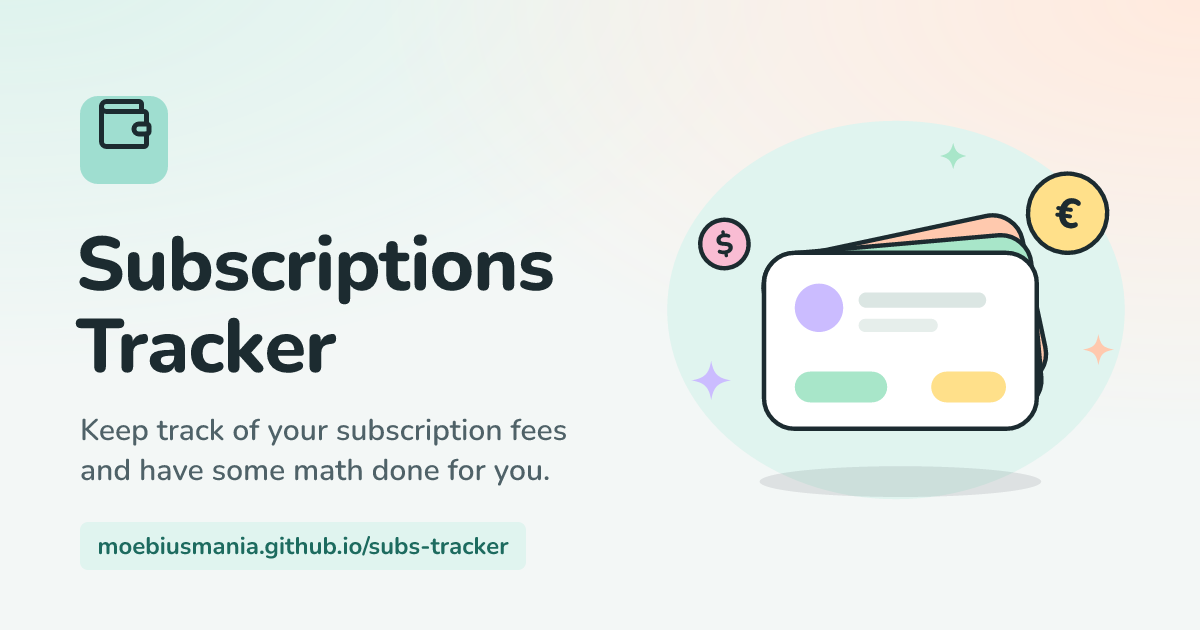
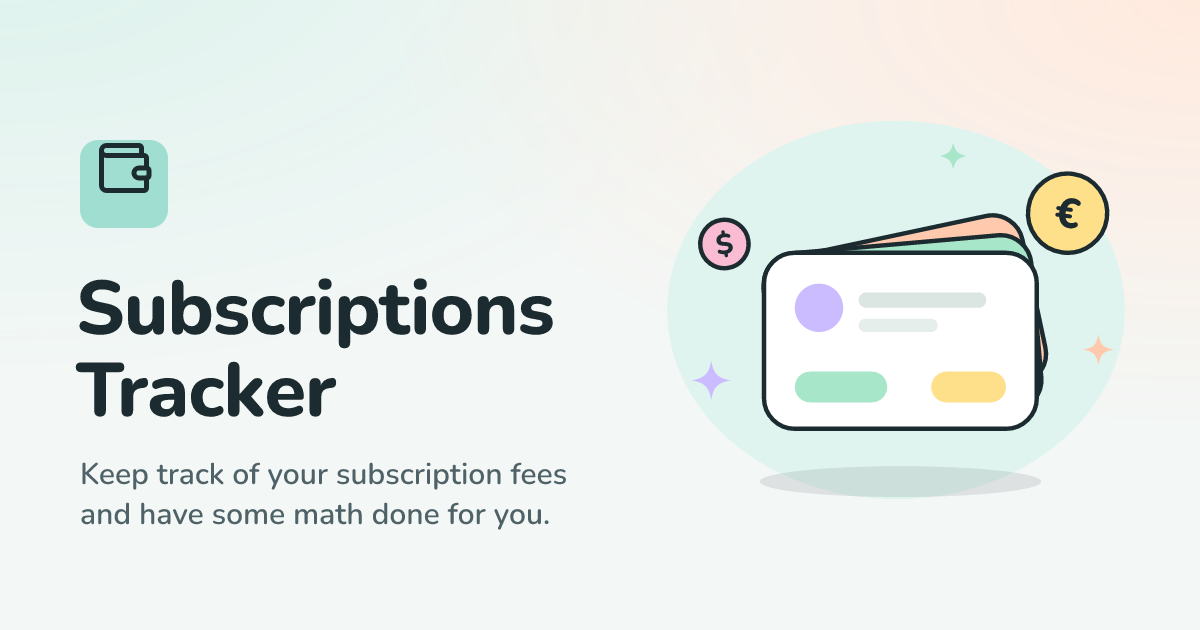
fix: longer share title, no URL in the preview image
The share title is now 58 characters (preview checkers want 30-60),
from a new meta.shareTitle key, while the page title stays short.
twitter:image comes after its alt tag, the preview image drops the
repository URL and re-centres the text, and the warning sign is gone
from the README title.

Changed region(s): [[0.0617, 0.1508, 0.4933, 0.9048]]

diff --git a/src/js/lib/types.ts b/src/js/lib/types.ts
@@ -13,6 +13,7 @@ export type I18n = {
   meta: {
     language: string;
     title: string;
+    shareTitle: string;
     description: string;
     imageAlt: string;
   };

diff --git a/CLAUDE.md b/CLAUDE.md
@@ -147,12 +147,14 @@ their own browser (`deno task dev:host` serves it to the LAN).
   and `--color-on-accent` values.
 - **Social previews**: `base.vto` has Open Graph/Twitter tags and a canonical
   link, with absolute URLs from the `url(true)` filter. They're read by crawlers
-  that don't run JS, so they stay in English. `src/og-image.png` (1200×630,
-  added in `_config.ts` but not precached) is rendered from `src/og-image.svg`,
-  a static variant of the empty-state illustration with the light tokens
-  hard-coded: keep it in sync with the palette and the illustration. Its text
-  needs static Nunito weights (600/700/800) at render time, since resvg ignores
-  the weight of the variable font.
+  that don't run JS, so they stay in English. `og:title`/`twitter:title` use
+  `meta.shareTitle`, longer than `meta.title` (30-60 characters is what the
+  preview checkers want). `src/og-image.png` (1200×630, added in `_config.ts`
+  but not precached) is rendered from `src/og-image.svg`, a static variant of
+  the empty-state illustration with the light tokens hard-coded: keep it in sync
+  with the palette and the illustration. Its text needs static Nunito weights
+  (600/700/800) at render time, since resvg ignores the weight of the variable
+  font.
 - Dates saved to `localStorage` come back as strings, so render them with
   `new Date(item.expiration)`.
 - **Terminal version** (`tui/`, entry `tui/main.ts`): feature parity with the

diff --git a/README.md b/README.md
@@ -1,4 +1,4 @@
-# 💰 Subscriptions Tracker ⚠
+# 💰 Subscriptions Tracker
 
 <p align="center">
   <img src=".github/poster.svg" alt="Illustration of fanned subscription cards with bouncing euro and dollar coins" width="360">
